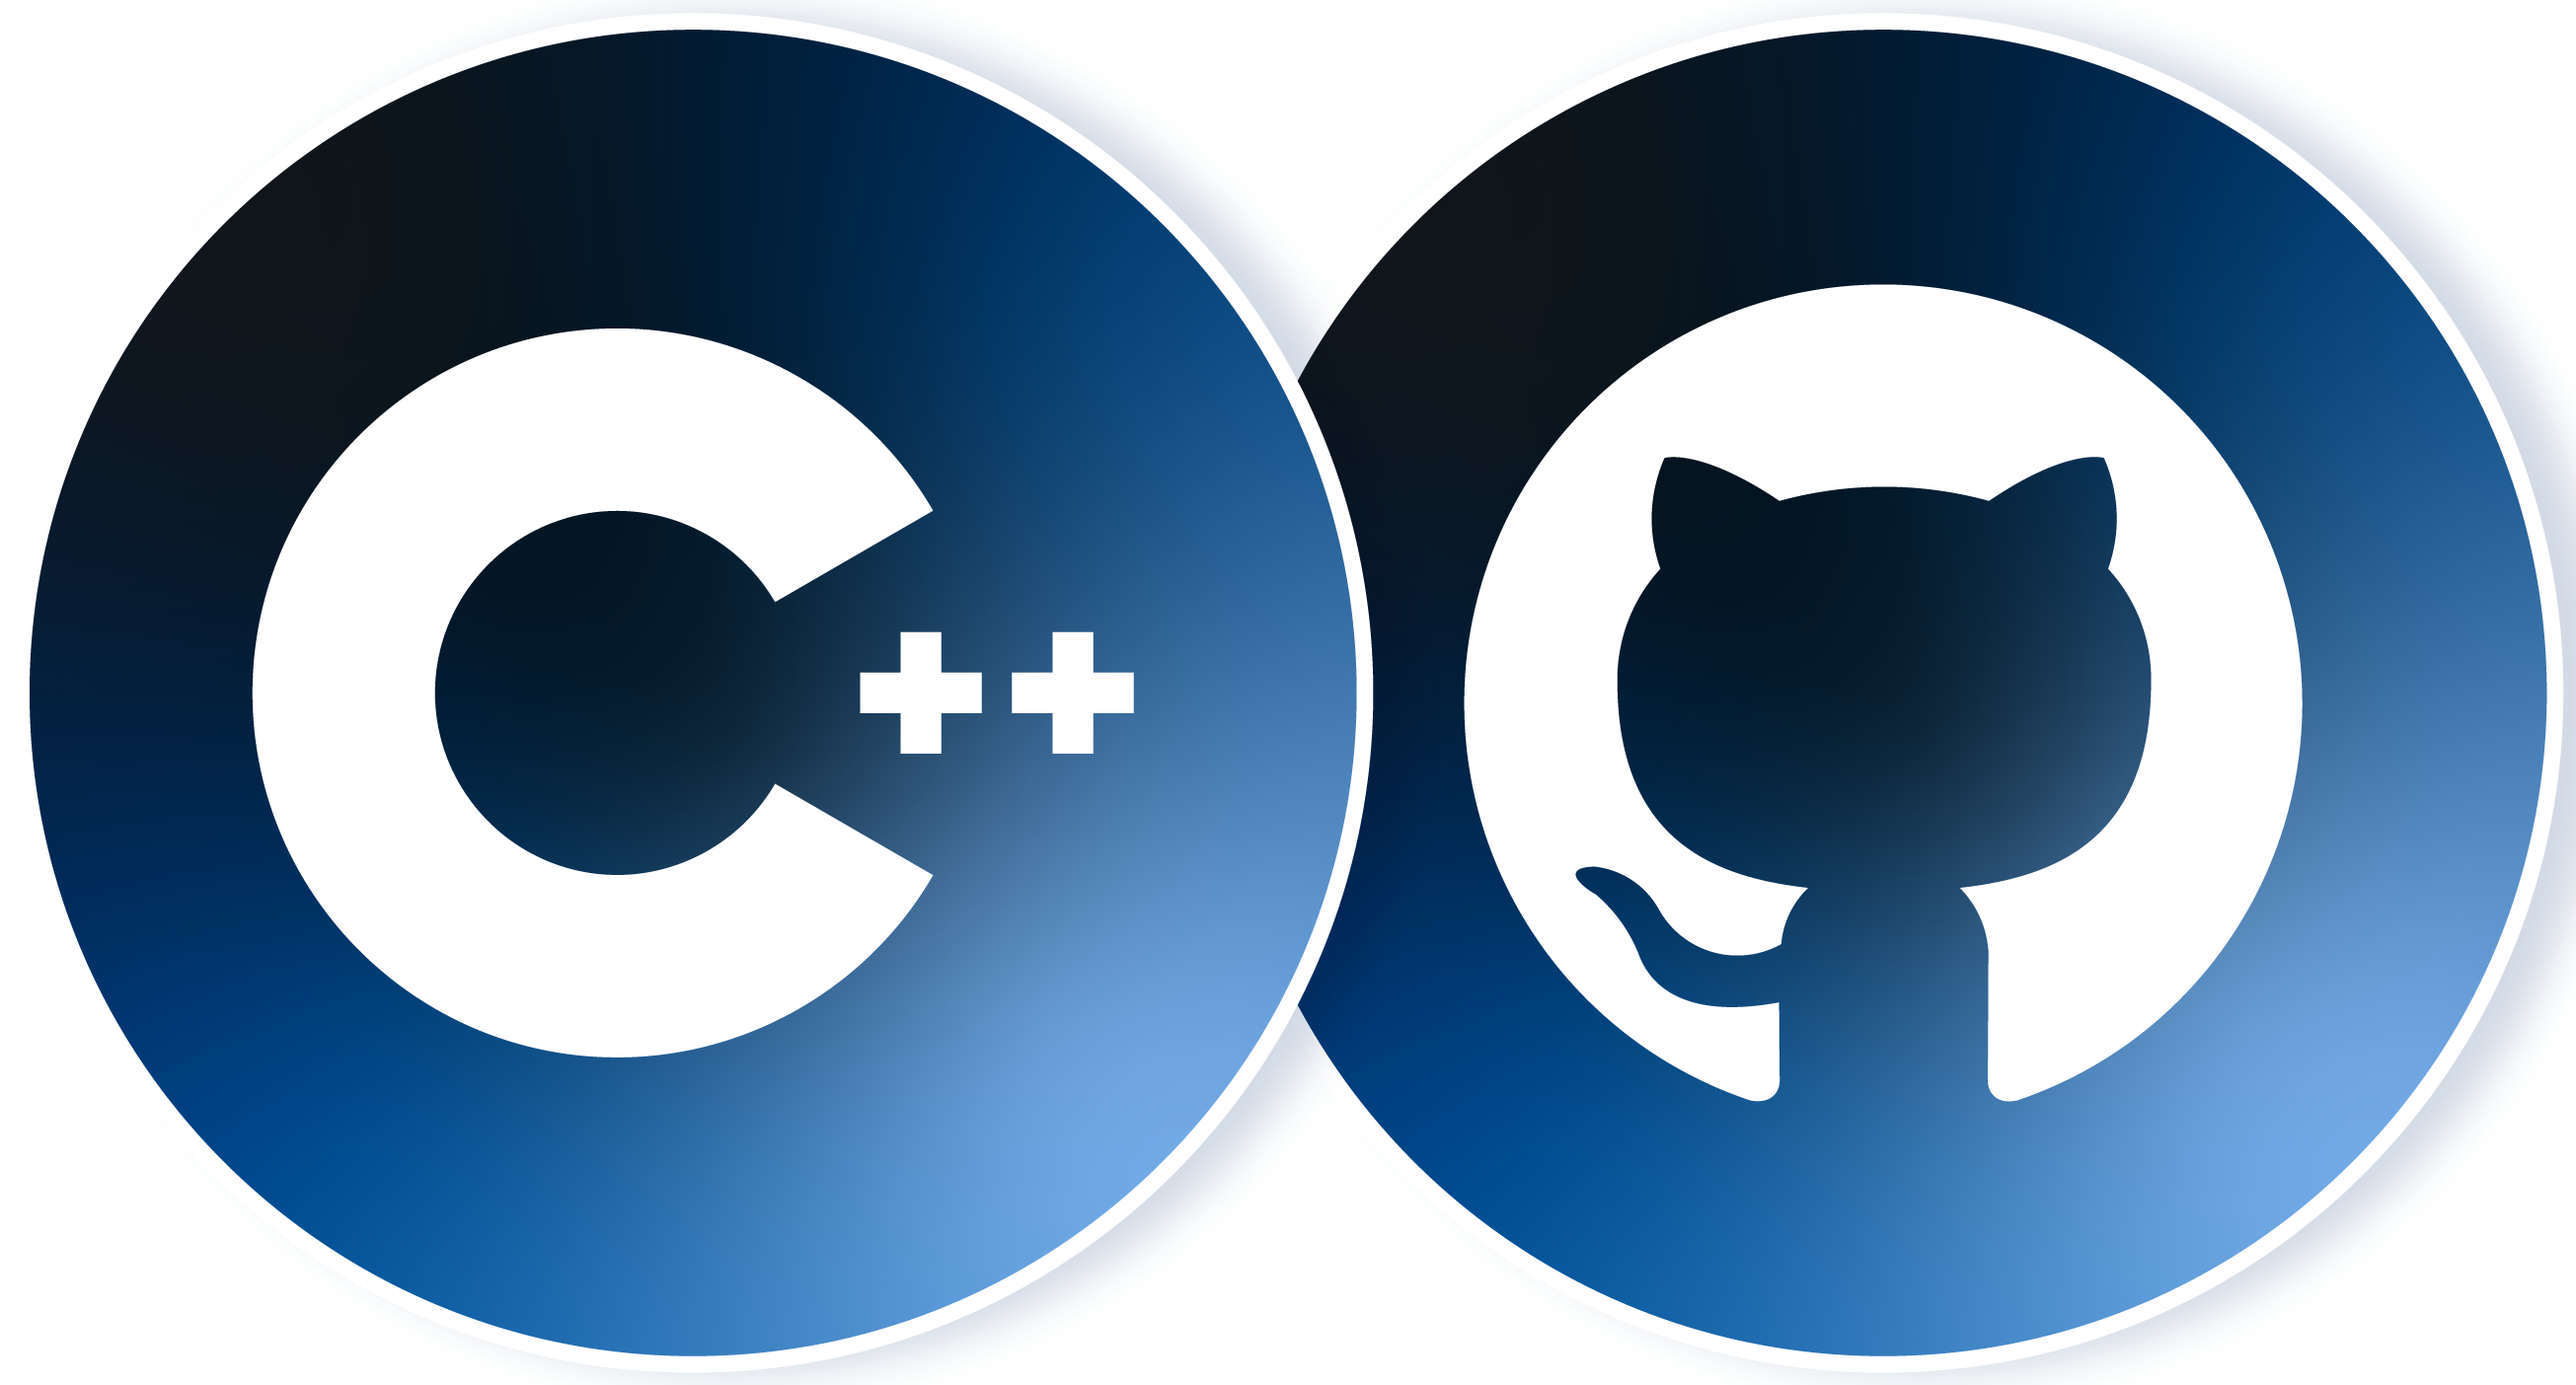
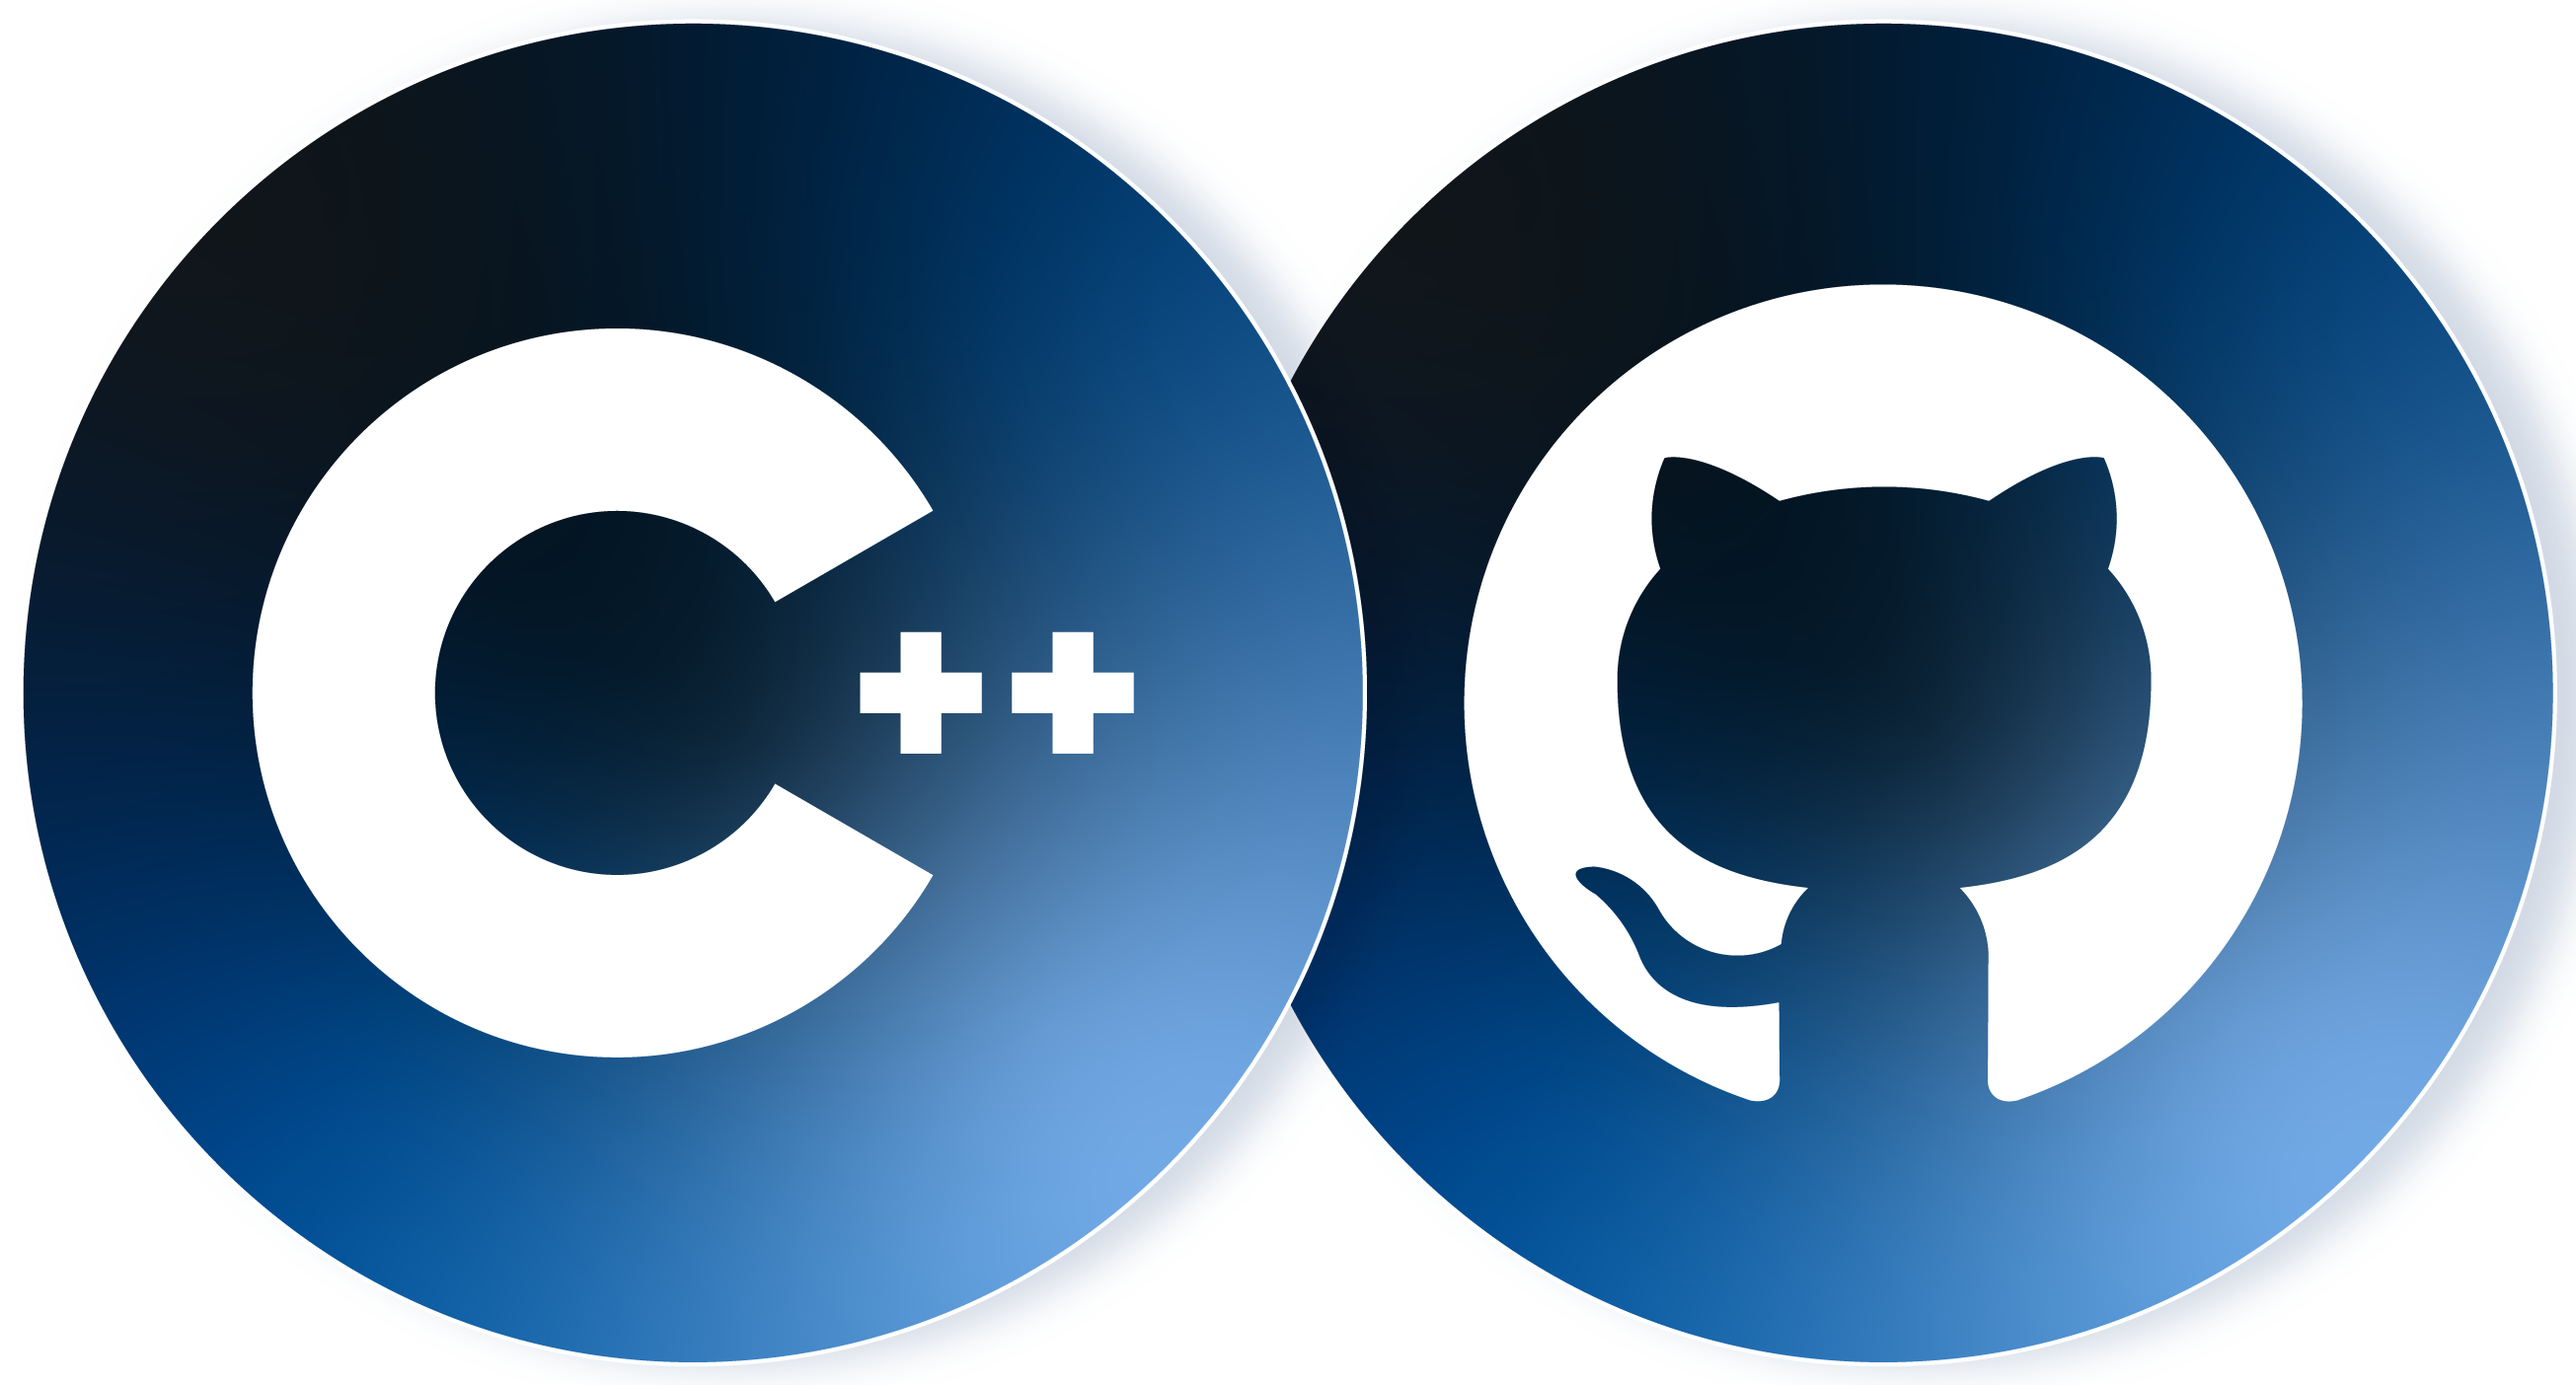
Improve Thumb and Title

diff --git a/README.md b/README.md
@@ -1,7 +1,7 @@
 <div align="center">
-    <img src="./assets/thumbnail.png" alt="Thumbnail" height="160">
+    <img src="./assets/thumbnail.png" alt="Thumbnail" height="120">
     <br>
-    <h1>C++ Starter Kit</h1>
+    <h1>C++ Starter Kit - Learn Fundamentals</h1>
     <p>Here, you'll find beginner-friendly programs tutorials, essential data structures, algorithms, and file operations. All with C++.</p>
 </div>
 
